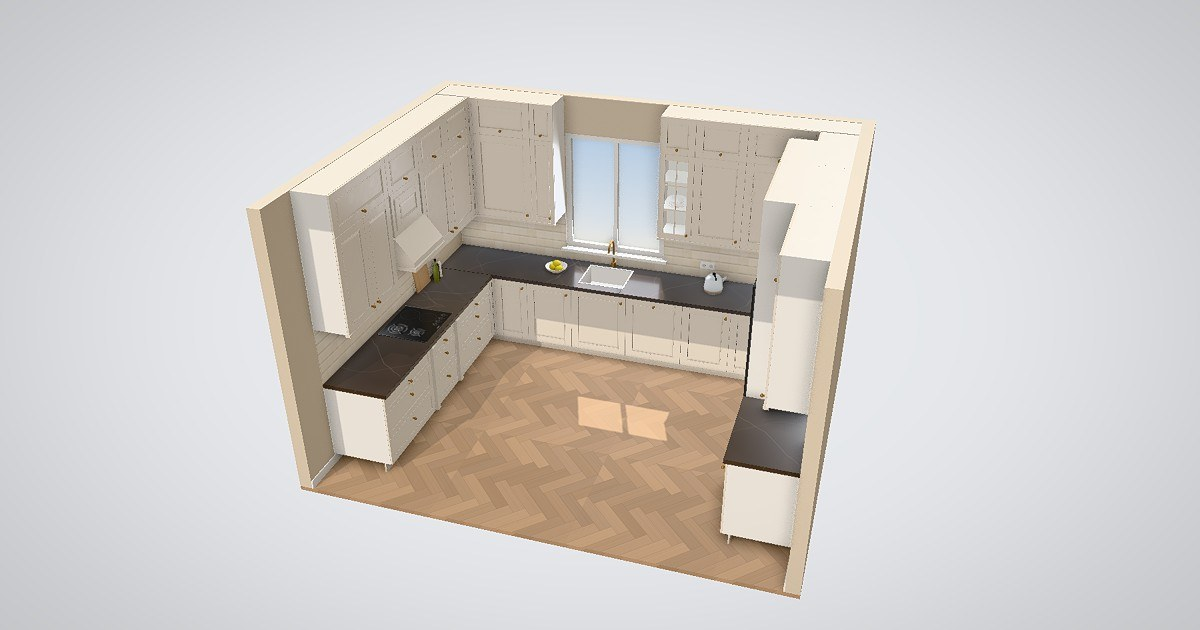
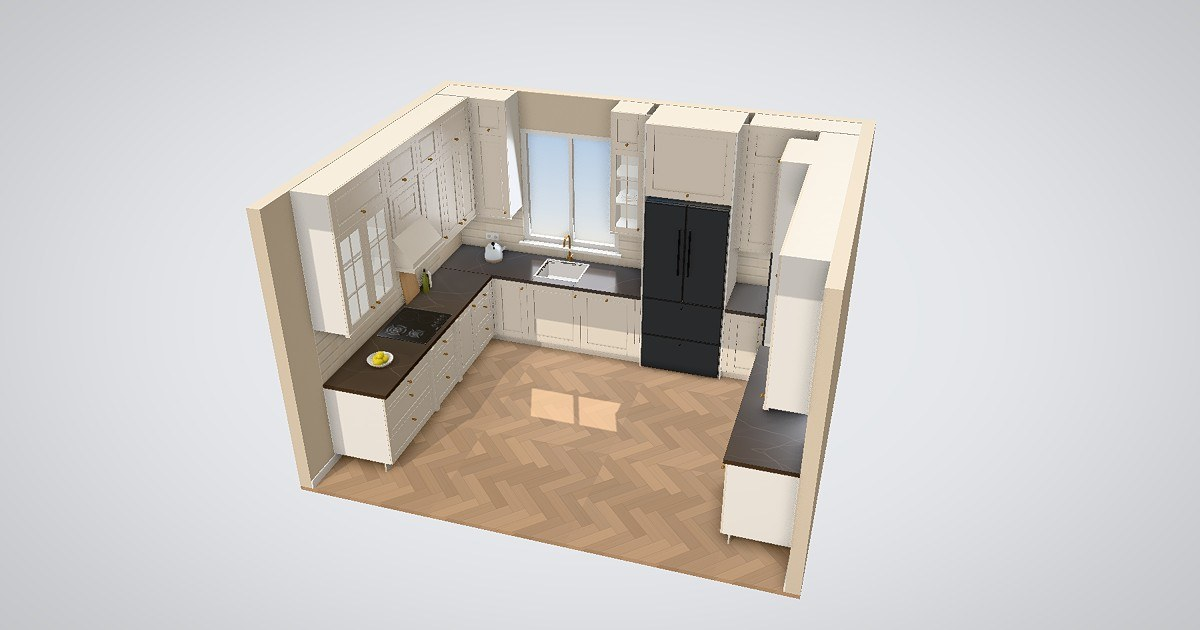
fix(кухня): треугольник — не для кухни в одну линию; готовые кухни без замечаний
- checkProject не выдаёт «рабочий треугольник», когда холодильник, мойка
  и варочная в одном ряду: треугольник вырожден, правило неприменимо
- у больших готовых кухонь места приборов подобраны (параметр o=),
  маленькая угловая стала 310 × 180; ни у одной готовой кухни нет замечаний
- скрипт кадров не шлёт POST (счётчик посетителей не засоряется)

Changed region(s): [[0.2775, 0.1206, 0.6783, 0.6333], [0.4317, 0.6032, 0.555, 0.6937], [0.4625, 0.5127, 0.4933, 0.5429]]

diff --git a/__tests__/kitchen-ready.test.ts b/__tests__/kitchen-ready.test.ts
@@ -55,11 +55,13 @@ describe('готовые кухни (kitchen-ready.ts)', () => {
     for (const k of READY) expect(k.id).toMatch(/^[a-z0-9]+(?:-[a-z0-9]+)*$/)
   })
 
-  it('по три кухни каждой формы; размеры — от 240 см до большой', () => {
+  it('по три кухни каждой формы; размеры — от маленькой до большой', () => {
     const shapes = READY.map((k) => stateOf(k.q).shape)
     for (const s of ['straight', 'corner', 'u', 'island'] as Shape[]) expect(shapes.filter((x) => x === s)).toHaveLength(3)
+    // меньше 300 см по стене A с холодильником и «треугольником» не собрать
     const lengths = READY.map((k) => stateOf(k.q).a)
-    expect(Math.min(...lengths)).toBe(240)
+    expect(Math.min(...lengths)).toBe(300)
+    expect(Math.min(...READY.map((k) => stateOf(k.q)).filter((s) => s.shape === 'corner').map((s) => s.b))).toBe(180)
     expect(Math.max(...lengths)).toBeGreaterThanOrEqual(420)
   })
 
@@ -79,14 +81,11 @@ describe('готовые кухни (kitchen-ready.ts)', () => {
     expect(READY.filter((k) => liveIds.has(new URLSearchParams(k.q).get('dw') ?? '')).length).toBeGreaterThanOrEqual(8)
   })
 
-  it('planKitchen ничего не выкидывает, checkProject без замечаний (кроме совета «треугольник»)', () => {
-    // «Треугольник» (холодильник–мойка–плита 120–270 см) — совет по удобству:
-    // авто-раскладка самого конструктора его обычно не выполняет, а размеры и
-    // безопасность (место, окно, высоты, бока плиты) — обязательны.
+  it('planKitchen ничего не выкидывает, checkProject без замечаний', () => {
     // все замечания разом, чтобы видеть каждую кухню, а не первую
     const bad = READY.flatMap((k) => {
       const plan = planOf(stateOf(k.q), catalog)
-      const warns = checkProject(plan).filter((c) => c.level === 'warn' && c.id !== 'triangle')
+      const warns = checkProject(plan).filter((c) => c.level === 'warn')
       return plan.dropped.length || warns.length ? [{ id: k.id, dropped: plan.dropped, warns }] : []
     })
     expect(bad).toEqual([])

diff --git a/src/data/kitchen-ready.ts b/src/data/kitchen-ready.ts
@@ -59,10 +59,10 @@ export const READY: ReadyKitchen[] = [
   ),
   // угловые
   kitchen(
-    'corner-240x180-japandi',
-    'f=corner&a=240&b=180&s=japandi&fr=cb-00002233&ov=cb-00002147&hb=cb-00002139&hd=cb-00002138&dw=-&fc=dec-egger-h1145-st10',
-    'Угловая 240 × 180 · Японди, дуб',
-    'Бурчтук 240 × 180 · Японди, эмен',
+    'corner-310x180-japandi',
+    'f=corner&a=310&b=180&s=japandi&fr=cb-00002233&ov=cb-00002147&hb=cb-00002139&hd=cb-00002138&dw=-&o=s_160f_280twpq.h_115v&fc=dec-egger-h1145-st10',
+    'Угловая 310 × 180 · Японди, дуб',
+    'Бурчтук 310 × 180 · Японди, эмен',
   ),
   kitchen(
     'corner-300x240-marble',
@@ -72,14 +72,14 @@ export const READY: ReadyKitchen[] = [
   ),
   kitchen(
     'corner-360x300-english',
-    'f=corner&a=360&b=300&s=english&fr=cb-00002319&ov=cb-00002334&hb=cb-00002338&hd=cb-00001547&dw=cb-00002492&mw=cb-00002331&fc=ral-6028&tp=tq-calacatta',
+    'f=corner&a=360&b=300&s=english&fr=cb-00002319&ov=cb-00002334&hb=cb-00002338&hd=cb-00001547&dw=cb-00002492&mw=cb-00002331&o=s_130df_260twpq.h_180v&fc=ral-6028&tp=tq-calacatta',
     'Угловая 360 × 300 · Английская, зелёная',
     'Бурчтук 360 × 300 · Англис, жашыл',
   ),
   // П-образные
   kitchen(
     'u-300x240-minimal',
-    'f=u&a=300&b=240&c=240&s=minimal&fr=cb-00002320&ov=cb-00001782&hb=cb-00001822&hd=cb-00001444&dw=-&fc=dec-kronospan-k101&tp=tq-grey',
+    'f=u&a=300&b=240&c=240&s=minimal&fr=cb-00002320&ov=cb-00001782&hb=cb-00001822&hd=cb-00001444&dw=-&o=s-1475d.h_150v.f_145wtpq&fc=dec-kronospan-k101&tp=tq-grey',
     'П-образная 300 × 240 · Минимализм, белый',
     'П-формалуу 300 × 240 · Минимализм, ак',
   ),
@@ -91,7 +91,7 @@ export const READY: ReadyKitchen[] = [
   ),
   kitchen(
     'u-420x300-classic',
-    'f=u&a=420&b=300&c=300&s=classic&fr=cb-00002111&ov=cb-00002333&hb=cb-00002337&hd=cb-00001547&dw=cb-00002492&mw=cb-00002332&fc=ral-9001',
+    'f=u&a=420&b=300&c=300&s=classic&fr=cb-00002111&ov=cb-00002333&hb=cb-00002337&hd=cb-00001547&dw=cb-00002492&mw=cb-00002332&o=s_130df_270.h-1825v.twpq&fc=ral-9001',
     'П-образная 420 × 300 · Классика, кремовый',
     'П-формалуу 420 × 300 · Классика, каймак түс',
   ),

diff --git a/__tests__/kitchen-layout.test.ts b/__tests__/kitchen-layout.test.ts
@@ -510,3 +510,35 @@ describe('2026-09-27: верхний ряд поднят встроенной в
     expect(byId(checkProject(plan), 'upperRaised')).toEqual([])
   })
 })
+
+describe('2026-09-27: рабочая линия — холодильник, мойка и варочная в одном ряду', () => {
+  const set = { fridge, hob: hob(), dishwasher: dwBuilt }
+
+  it('прямая кухня 400 см: три прибора на одной линии — пункта «треугольник» нет', () => {
+    const plan = planKitchen({ shape: 'straight', a: 400, ...base, ...set, arrangement: { A: ['fridge', 'sink', 'dishwasher', 'hob'] } }, opts)
+    expect(new Set(['fridge', 'sink', 'hob'].map((k) => plan.runs.find((r) => r.modules.some((m) => m.kind === k))!.id))).toEqual(new Set(['A']))
+    expect(byId(checkProject(plan), 'triangle')).toEqual([])
+  })
+
+  it('остров для хранения: все три у стены A — пункта «треугольник» нет', () => {
+    const plan = planKitchen({ shape: 'island', a: 420, b: 0, c: 0, island: 180, ...set, arrangement: { A: ['fridge', 'sink', 'dishwasher', 'hob'] } }, opts)
+    expect(plan.runs.some((r) => r.id === 'I')).toBe(true)
+    expect(byId(checkProject(plan), 'triangle')).toEqual([])
+  })
+})
+
+describe('2026-09-27: треугольник на разных рядах — как раньше', () => {
+  it('угловая 300×240: холодильник на стене B, мойка и варочная на A — пункт есть, стороны по точкам перед приборами', () => {
+    const plan = planKitchen(
+      { shape: 'corner', a: 300, b: 240, c: 0, island: 0, fridge, hob: hob(), dishwasher: dwBuilt, arrangement: { A: ['sink', 'dishwasher', 'hob'], B: ['fridge'] } },
+      opts,
+    )
+    const walls = (k: string) => plan.runs.find((r) => r.modules.some((m) => m.kind === k))!.id
+    expect([walls('fridge'), walls('sink'), walls('hob')]).toEqual(['B', 'A', 'A'])
+    const [tri] = byId(checkProject(plan), 'triangle')
+    expect(tri).toBeDefined()
+    // не вырожден: самая длинная сторона короче суммы двух других
+    const [s0, s1, s2] = [...tri.legs].sort((x, y) => x - y)
+    expect(s2).toBeLessThan(s0 + s1)
+  })
+})

diff --git a/src/lib/kitchen/checks.ts b/src/lib/kitchen/checks.ts
@@ -29,6 +29,7 @@ export type Check =
 /**
  * Правило треугольника: каждая сторона 120–270 см, сумма не больше 790 см.
  * Нижняя граница с запасом 5 см: точку «перед прибором» мы берём примерно.
+ * Только когда приборы на разных рядах: в одном ряду пункта нет.
  */
 export const TRIANGLE = { legMin: 115, legMax: 270, sumMax: 790 }
 /** Столешница по бокам плиты — не меньше 30 см. */
@@ -118,7 +119,9 @@ export function checkProject(plan: Plan, facts: CheckFacts = {}): Check[] {
   const hob = find(plan, 'hob')
   const dw = find(plan, 'dishwasher')
 
-  if (fridge && sink && hob) {
+  // Все три в одном ряду — «рабочая линия»: точки перед ними на одной прямой,
+  // треугольник вырожден (одна сторона = сумме двух), правило к ней не мерило.
+  if (fridge && sink && hob && !(fridge.run === sink.run && sink.run === hob.run)) {
     const legs: [number, number, number] = [dist(front(fridge), front(sink)), dist(front(sink), front(hob)), dist(front(hob), front(fridge))]
     const sum = legs[0] + legs[1] + legs[2]
     const good = legs.every((l) => l >= TRIANGLE.legMin && l <= TRIANGLE.legMax) && sum <= TRIANGLE.sumMax

diff --git a/__tests__/kitchen.test.ts b/__tests__/kitchen.test.ts
@@ -616,13 +616,12 @@ describe('проверка проекта', () => {
     expect(pick(list, 'fits')!.level).toBe('ok')
   })
 
-  it('тесная прямая кухня — треугольник слишком маленький, не всё влезло', () => {
+  it('тесная прямая кухня — рабочая линия без «треугольника», не всё влезло', () => {
     const list = checkProject(
       planKitchen({ shape: 'straight', a: 260, b: 0, c: 0, island: 0, ...set, arrangement: { A: ['hob', 'sink', 'dishwasher', 'fridge'] } }, { shelves: false }),
     )
-    const tri = pick(list, 'triangle')!
-    expect(tri.level).toBe('warn')
-    expect(Math.min(...tri.legs)).toBeLessThan(115)
+    // холодильник, мойка и варочная в одном ряду: треугольник вырожден, пункта нет
+    expect(pick(list, 'triangle')).toBeUndefined()
     expect(pick(list, 'fits')).toEqual({ id: 'fits', level: 'warn', count: 1 })
   })
 
